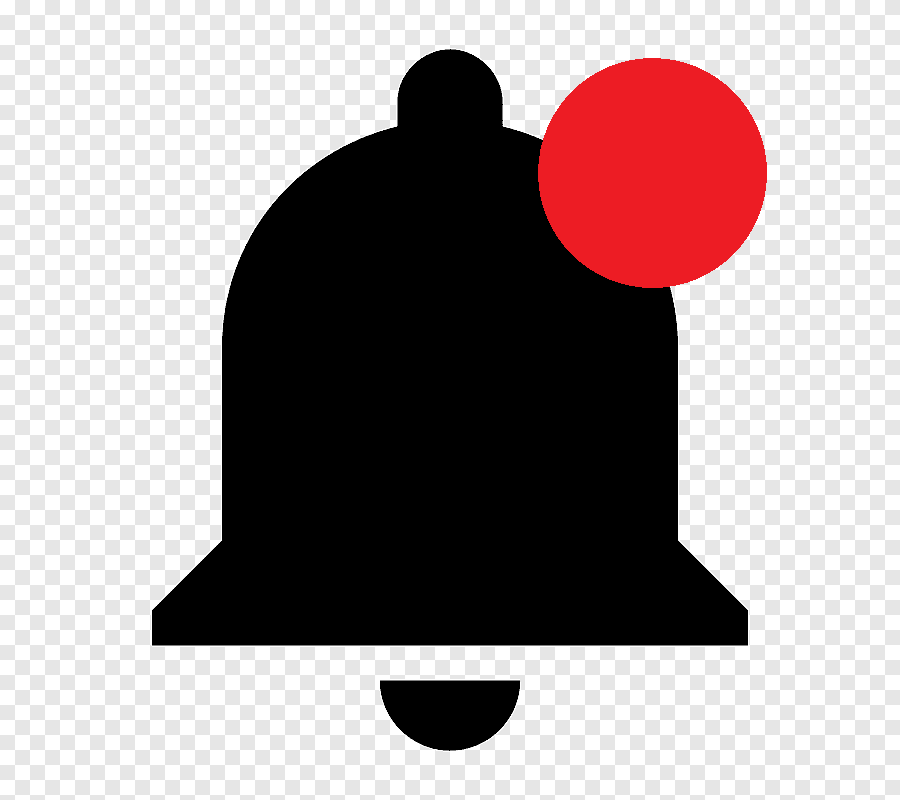
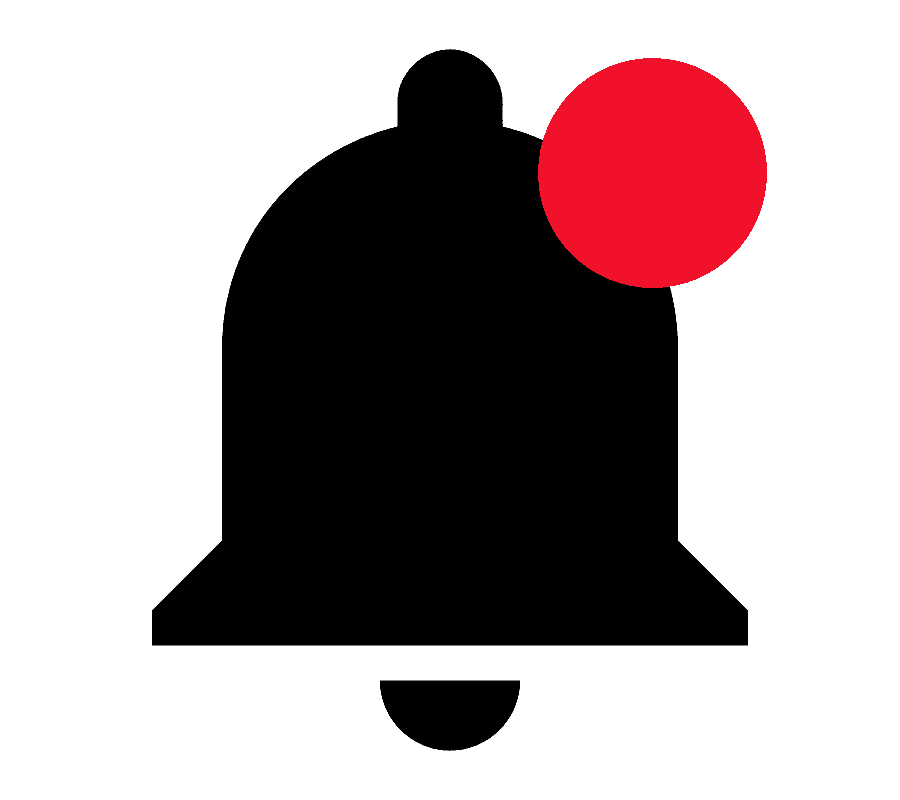
Changed styles (correct commit)

diff --git a/webapp/src/components/navigation/NavAuthenticated.js b/webapp/src/components/navigation/NavAuthenticated.js
@@ -1,4 +1,3 @@
-
 import React, {useState, useEffect} from 'react';
 import { Route, Redirect } from 'react-router-dom';
 import MapView from "../map/MapView";
@@ -26,8 +25,8 @@ import { FOAF } from "@inrupt/vocab-common-rdf";
 import {
     getSolidDataset, getThing, getUrlAll,
 } from "@inrupt/solid-client";
-import not from "../../assets/notificación.png";
-import notRed from "../../assets/notificaciónPunto.png";
+import not from "../../assets/notification.png";
+import notRed from "../../assets/notification_dot.png";
 import Popover from '@material-ui/core/Popover';
 import UserNotification from "./UserNotification";
 
@@ -149,6 +148,7 @@ function NavAuthenticated(){
                                             height="40"
                                             className="d-inline-block align-top"
                                             alt="notificacion"
+                                            style={{backgroundColor: "transparent"}}
                                         />
                             </Button>
                             <Popover

diff --git a/webapp/src/components/map/MarkerGenerator.js b/webapp/src/components/map/MarkerGenerator.js
@@ -75,12 +75,11 @@ function MarkerGenerator(props) {
 
     function DeleteButton({ locToDelete }) {
         return (
-            <Button className="delete-button btn-danger" onClick={() => deleteLocation(locToDelete)}>
+            <Button className="delete-button btn-danger" style={{ marginLeft: "15px"}} onClick={() => deleteLocation(locToDelete)}>
                 Delete from POD
             </Button>
         );
     }
-
 
     if(locationThings.length === 0){
         return <h3>No locations currently saved on your POD</h3>
@@ -101,7 +100,7 @@ function MarkerGenerator(props) {
         let coordinatesForCurrentMarker = [ latitudeParsed, longitudeParsed];
     return (<div>
         <Marker key={index} position={coordinatesForCurrentMarker} icon={greenIcon}>
-            <Popup>{tagForMarker}
+            <Popup><h6>{tagForMarker}</h6>
             <br/>
                 {timestampOfThingFormatted}
                 <DeleteButton locToDelete={locThing}/>

diff --git a/webapp/src/components/map/FriendMarkerGenerator.js b/webapp/src/components/map/FriendMarkerGenerator.js
@@ -59,9 +59,9 @@ function FriendMarkerGenerator(props) {
     return friendLocationList.map(function(friend,index){
         return (<div>
             <Marker key={index} position={[friend.latitude,friend.longitude]} icon={blueIcon}>
-                <Popup>Friend:
+                <Popup><h6>Friend:</h6>
                     <br/>
-                    {friend.friendId}
+                    <b>{friend.friendId}</b>
                 </Popup>
             </Marker>
         </div>)

diff --git a/webapp/src/tests/Marker.test.js b/webapp/src/tests/Marker.test.js
@@ -5,5 +5,4 @@ import MarkerGenerator from "./../components/map/MarkerGenerator";
 test('check that everything is rendering propertly', async () => {
   const { getByText } = render(<MarkerGenerator/>);
   expect(getByText("No locations currently saved on your POD")).toBeInTheDocument();
-   
 });  

diff --git a/webapp/src/components/admin/RegUserComponent.js b/webapp/src/components/admin/RegUserComponent.js
@@ -16,7 +16,6 @@ function RegUserComponent(props) {
         await removeUser(user);
         usersList = await getUsers();
         $('li').remove("#"+user);
-        //window.location.reload(false);
     }
 
     if(usersList.length === 0){return <h3>{t('MessageAdmin')}</h3>}

diff --git a/webapp/src/css/Navigation.css b/webapp/src/css/Navigation.css
@@ -78,5 +78,7 @@
 }
 
 .notification-button{
-    background-color: grey;
+    background-color: transparent;
+    position: absolute;
+    right: 10em;
 }
